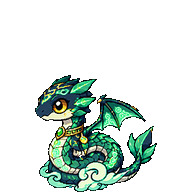
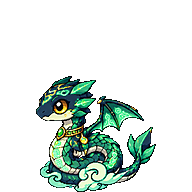
[THU 6j] Phong Nguyen Vu Xa: them anh nguon dung, cat lai 192 truc tiep tu nguon

Changed region(s): [[0.1562, 0.375, 0.8125, 1.0]]

diff --git a/thu-moi/TIEN_DO_DUA_VAO_GAME.md b/thu-moi/TIEN_DO_DUA_VAO_GAME.md
@@ -73,7 +73,7 @@ Hằng FRAME = 192 trong 51-thu-moi.js. Ảnh 192 nằm cạnh ảnh cũ với h
 
 ## Đợt 18/11/2026 (khung 192)
 - Cắt lại 49 con (vùng 1, 2, 3, 4 và 6a-6i) ở 192: chạy lại ở 128 từ ảnh nguồn trong repo cho ra đúng từng pixel bản 128 đang có (147/150 ảnh trùng), nên ảnh nguồn và tham số đúng.
-- 6j Phong Nguyên Vũ Xà: ảnh nguồn trong `thu-moi/phong-nguyen/` là BẢN CŨ (không trùng bản 128 đang dùng, 3 ảnh lệch), nên bản 192 của 6j được thu từ bản 256 đã duyệt (LANCZOS + alpha cứng 110). Chất lượng ổn nhưng nên đưa lại ảnh nguồn Đằng Xà đúng vào `thu-moi/phong-nguyen/` rồi cắt lại.
+- 6j Phong Nguyên Vũ Xà: ảnh nguồn cũ trong `thu-moi/phong-nguyen/` là bản lỗi thời nên ĐÃ thêm ảnh nguồn đúng `phong-nguyen-10-phong-nguyen-vu-xa-chuan.png` (người dùng gửi 18/11, tách nền magenta + `hau_xu_ly_anh_thu.py --bg magenta`; file cũ giữ nguyên). Cắt 128 từ file này trùng từng pixel với bản 128 đang dùng, nên bản 192 của 6j giờ cắt THẲNG từ nguồn đúng (tỉ lệ thu 0.2857; bậc 1 cao 116px, bậc 2 cao 161px, bậc 3 cao 186px), không còn thu từ 256. Đã so mắt nền sáng/tối: 3 bậc không dính nhau, 0 pixel ám magenta. Vài viên ngọc hồng nhỏ bị xóa như trước.
 - Vùng 5 Nguyệt Cung (5a-5j, 10 con) làm ở 192 với `--kieu-d --gan-gan-nhat`; đã so mắt bảng nền sáng/tối: 3 bậc không dính nhau, chân chạm đáy. Chưa kiểm trong game thật trên điện thoại.
   Tên tạm theo file: Nguyệt Thố, Nguyệt Hạc, Nguyệt Thiềm, Nguyệt Đằng, Nguyệt Nga, Nguyệt Kình, Nguyệt Tượng, Nguyệt Quy, Nguyệt Tiên, Nguyệt Thực Tế Quân (Boss).
   Điểm chưa ổn vùng 5: 5c Nguyệt Thiềm và 5f Nguyệt Kình thân dẹt rộng nên bậc 1 thấp (63px, 68px); 5d Nguyệt Đằng có nhiều cánh hoa nhỏ rời, chưa xem kỹ ở cỡ đúng.
@@ -91,4 +91,4 @@ Vào thư mục `thu-game/tuyet-nguyen/`: 01-tuyet-cau-b1.png, -b2.png, -b3.png;
 - (Đã xong) dòng script 51-thu-moi.js đã có trong index.html.
 
 ## Việc kế tiếp
-Bạn duyệt cả 60 con ở `game-moi/index.html` (nút Khung đổi 192/128). Còn lại: đưa lại ảnh nguồn 6j đúng (xem trên), đổi tên chính thức (chỉ sửa trong 51-thu-moi.js). Bước sau (sửa cơ chế, bỏ thú và trứng cũ) tính riêng.
+Bạn duyệt cả 60 con ở `game-moi/index.html` (nút Khung đổi 192/128). Còn lại: đổi tên chính thức (chỉ sửa trong 51-thu-moi.js). Bước sau (sửa cơ chế, bỏ thú và trứng cũ) tính riêng.
